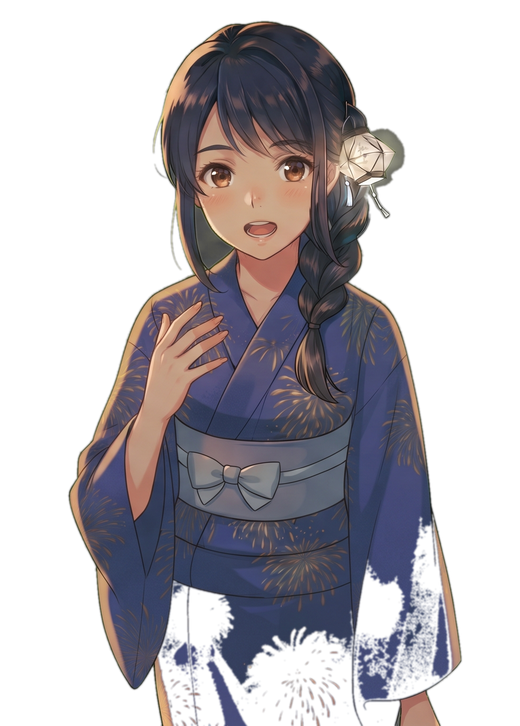
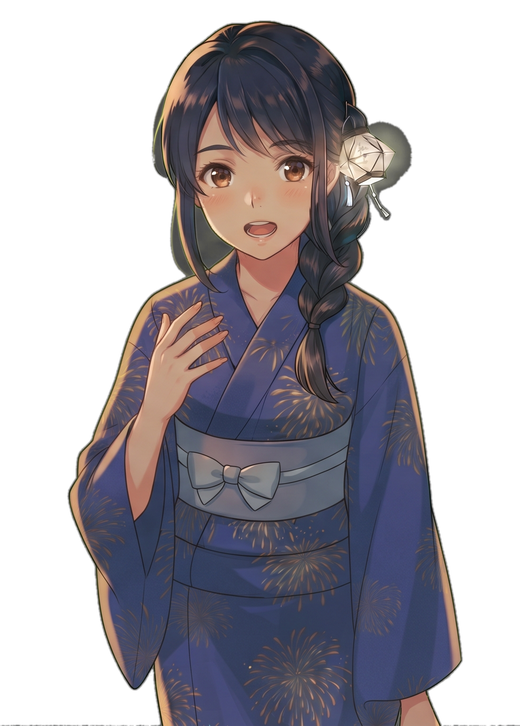
浴衣の色抜けを修正(背景除去の閾値調整)、カード背景を透明化して白背景セクションでの浮きを解消、ストーリー性のため各カードに一言セリフを追加し重複ポートレートを整理

diff --git a/09_LP/index.html b/09_LP/index.html
@@ -123,14 +123,20 @@
   .illust-card{
     width:100%;
     max-width:260px;
-    margin:0 auto 28px;
+    margin:0 auto 10px;
     border-radius:14px;
     overflow:hidden;
     box-shadow:0 16px 40px rgba(27,42,74,0.18);
-    background:radial-gradient(ellipse at 50% 20%, #FBF3E3 0%, var(--paper-deep) 78%);
-    border:1px solid rgba(176,134,80,0.25);
+    border:1px solid rgba(176,134,80,0.3);
   }
   .illust-card img{width:100%;display:block;}
+  .illust-caption{
+    text-align:center;
+    font-family:'Shippori Mincho',serif;
+    font-size:0.82rem;
+    color:var(--gold);
+    margin-bottom:26px;
+  }
   @media (min-width:900px){
     .illust-card{max-width:320px;}
   }
@@ -805,6 +811,7 @@
     </div>
     <p class="reel-caption reveal">Instagramで公開中のリールと同じ映像です。とおまちの一晩を、30数秒で。</p>
     <div class="illust-card reveal" style="margin-top:26px;"><img src="images/reel-illust.png" alt="動画について話しかける灯真"></div>
+    <p class="illust-caption reveal">まずはこの動画で、雰囲気だけでも見てみて。</p>
   </section>
 
   <!-- ② 共感（楽しみのシンクロ） -->
@@ -813,7 +820,6 @@
     <span class="eyebrow reveal">SUMMER, FIREWORKS</span>
     <h2 class="section-title reveal">夏はやっぱり、<br>花火だよね。</h2>
     <div class="divider reveal"></div>
-    <div class="illust-card reveal"><img src="images/pain-illust.jpg" alt="屋台で林檎飴を頬張る灯真"></div>
     <ul class="arualru-list reveal">
       <li>今年こそ、浴衣を着て出かけたい</li>
       <li>混みすぎない場所で、ゆったり花火を見たい</li>
@@ -828,11 +834,11 @@
   <!-- ③ 解決 -->
   <section class="solution on-white">
     <svg class="fw-deco br sm" viewBox="0 0 200 200" aria-hidden="true"><g fill="none" stroke="currentColor" stroke-width="4" stroke-linecap="round"><path d="M100 18 V34"/><rect x="82" y="34" width="36" height="16" rx="4"/><ellipse cx="100" cy="122" rx="58" ry="70"/><line x1="46" y1="95" x2="154" y2="95"/><line x1="40" y1="122" x2="160" y2="122"/><line x1="46" y1="149" x2="154" y2="149"/><path d="M100 192 V178"/><circle cx="100" cy="196" r="5" fill="currentColor"/></g></svg>
-    <img class="char-portrait tl" src="images/c1_temaneki.png" alt="手を振る灯真">
     <span class="eyebrow reveal">SOLUTION</span>
     <h2 class="section-title reveal">とおまちは、<br>ちょうどいい。</h2>
     <div class="divider reveal"></div>
     <div class="illust-card reveal"><img src="images/solution-illust.jpg" alt="提灯の並ぶ道を曲がった瞬間の灯真"></div>
+    <p class="illust-caption reveal">曲がった先に、ちょうどいい景色があったんだ。</p>
     <p class="lead reveal">駅から歩いてすぐ。川沿いに、ゆるく人が集まるくらいの賑わい。混みすぎないから、座って、話しながら、ゆったり花火が見られる。気合いを入れなくても、ふらっと行けるくらいが、ちょうどいい。</p>
     <ul class="point-list reveal">
       <li><span class="point-num">一</span>ちょうどいい規模感（約3,000発、川幅が近くて迫力あり）</li>
@@ -848,6 +854,7 @@
     <h2 class="section-title reveal">とおまち夏花火ナイト</h2>
     <div class="divider reveal"></div>
     <div class="illust-card reveal"><img src="images/eventinfo-illust.jpg" alt="有料観覧席でくつろぎながら花火を見る灯真"></div>
+    <p class="illust-caption reveal">予約席、特等席で待ってるね。</p>
     <table class="info-table reveal">
       <tr><th>開催日</th><td>8月中旬の土曜（年1回開催）</td></tr>
       <tr><th>会場</th><td>とおまち川河川敷</td></tr>
@@ -865,7 +872,8 @@
     <span class="eyebrow reveal">A NIGHT IN TOOMACHI</span>
     <h2 class="section-title reveal">とおまちで過ごす、<br>ひと晩の流れ</h2>
     <div class="divider reveal"></div>
-    <div class="illust-card reveal"><img src="images/scenes-illust.png" alt="ひと晩の流れを案内する灯真"></div>
+    <div class="illust-card reveal"><img src="images/pain-illust.jpg" alt="屋台で林檎飴を頬張る灯真"></div>
+    <p class="illust-caption reveal">着いたらまず、屋台をひとまわり。</p>
 
     <div class="scene-grid">
       <div class="scene-card reveal">
@@ -903,7 +911,6 @@
   <!-- ⑥ ベネフィット -->
   <section class="benefit">
     <svg class="fw-deco tr" viewBox="0 0 200 200" aria-hidden="true"><g fill="none" stroke="currentColor" stroke-width="4" stroke-linecap="round"><path d="M100 18 V34"/><rect x="82" y="34" width="36" height="16" rx="4"/><ellipse cx="100" cy="122" rx="58" ry="70"/><line x1="46" y1="95" x2="154" y2="95"/><line x1="40" y1="122" x2="160" y2="122"/><line x1="46" y1="149" x2="154" y2="149"/><path d="M100 192 V178"/><circle cx="100" cy="196" r="5" fill="currentColor"/></g></svg>
-    <img class="char-portrait bl" src="images/c3_nonbiri.png" alt="のんびりくつろぐ灯真">
     <span class="eyebrow reveal">BENEFIT</span>
     <h2 class="section-title reveal" style="color:#fff;">とおまちで見つかる、<br>3つの「ちょうどいい」</h2>
     <div class="divider reveal"></div>
@@ -936,6 +943,7 @@
     <h2 class="section-title reveal">とおまちに泊まる、<br>とおまちで食べる</h2>
     <div class="divider reveal"></div>
     <div class="illust-card reveal"><img src="images/stayeat-illust.png" alt="お辞儀する灯真"></div>
+    <p class="illust-caption reveal">泊まる宿も、一緒に探そうか。</p>
     <p class="lead-text reveal">町内の宿は数に限りがあります。気になる宿が見つかったら、LINEで気軽に空室を相談してみてください。</p>
 
     <div class="subsection-title reveal">宿泊施設</div>
@@ -1064,6 +1072,7 @@
     <h2 class="section-title reveal">よくある質問</h2>
     <div class="divider reveal"></div>
     <div class="illust-card reveal"><img src="images/faq-illust.png" alt="嬉しそうな灯真"></div>
+    <p class="illust-caption reveal">気になること、なんでも聞いてね。</p>
 
     <div class="faq-item reveal">
       <div class="faq-q" onclick="toggleFaq(this)"><span><span class="q-mark">Q</span>予約は必須ですか？</span><span class="chevron">＋</span></div>
